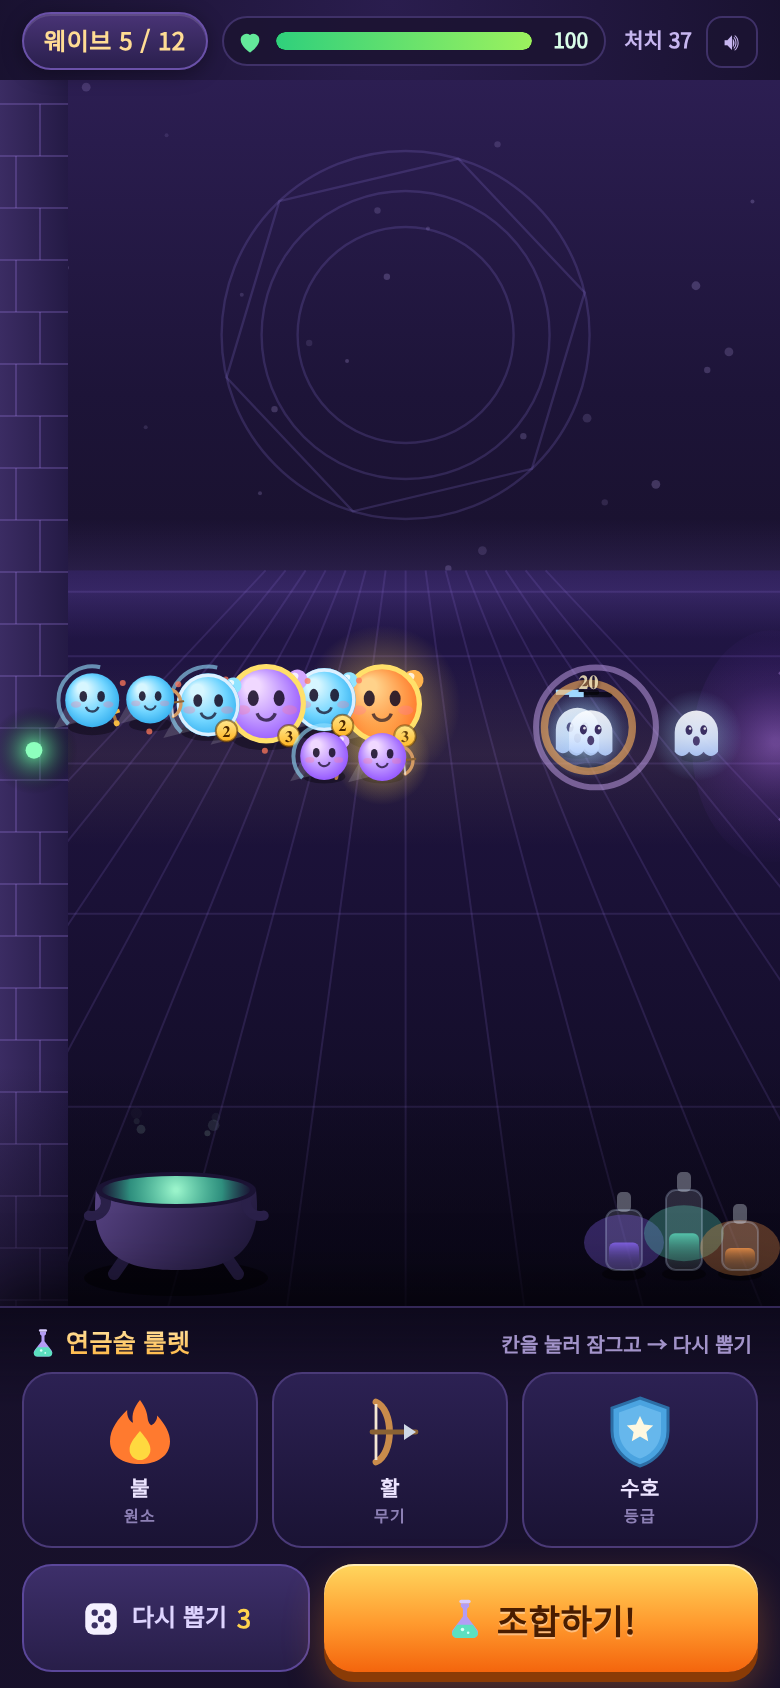
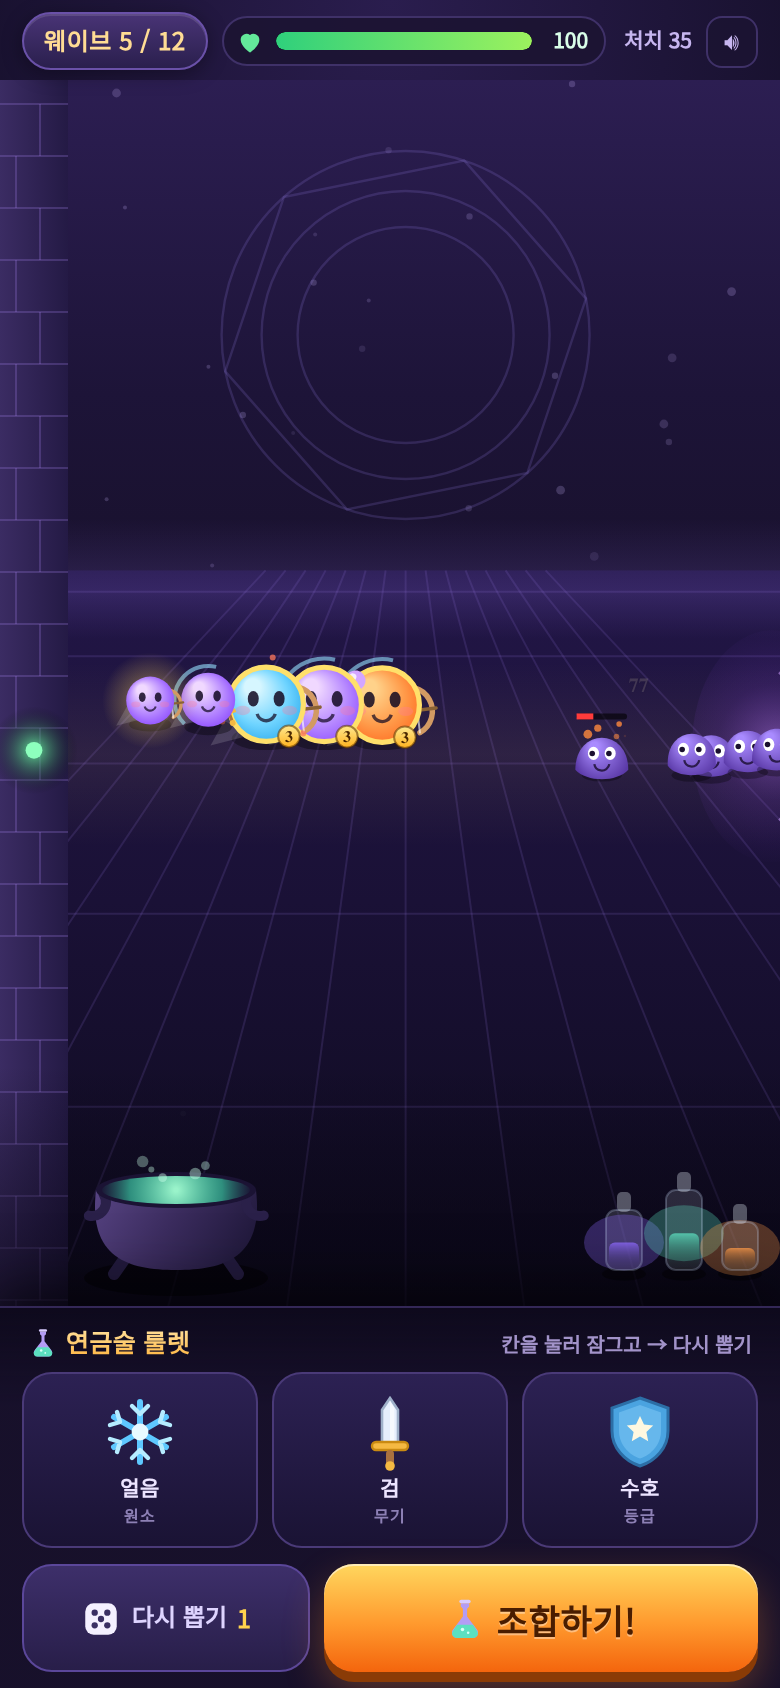
Alchemy Defense: tune battle layout, ghost siege units, 12-wave run

diff --git a/alchemy-defense/index.html b/alchemy-defense/index.html
@@ -41,7 +41,7 @@
     border:1px solid rgba(140,110,215,.35);text-shadow:0 1px 4px #000;pointer-events:none;transition:opacity .5s;z-index:3}
   #hint b{color:#ffd34d}
   #hint.gone{opacity:0}
-  #banner{position:absolute;left:0;right:0;top:38%;text-align:center;pointer-events:none;opacity:0;transition:opacity .25s;z-index:4}
+  #banner{position:absolute;left:0;right:0;top:22%;text-align:center;pointer-events:none;opacity:0;transition:opacity .25s;z-index:4}
   #banner.show{opacity:1}
   #banner b{display:block;font-size:23px;font-weight:900;letter-spacing:.5px;
     background:linear-gradient(#fff3cf,#ffc247);-webkit-background-clip:text;background-clip:text;color:transparent;
